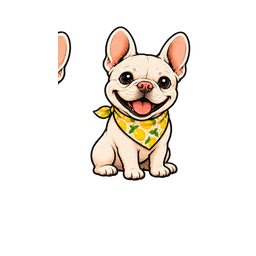
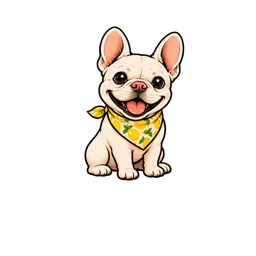
Béa: whole sprites, and she switches between running, digging and chasing
Each animation frame had been cut from its sprite sheet off-centre, so a
sliver of the neighbouring Béa showed at one edge and her nose or ear was
clipped at the other. The frames are re-cut from the joined strip, one
whole Béa per frame, and the stills updated to match.

While waiting she now changes what she is doing every 4.5 s: mostly her
own work, sometimes the other two, and with surprises on a ball chase or
a bone. The line stays about the real work; the ball and bone get their
own, now written for every personality but Helpful.

Claude-Session: https://claude.ai/code/session_01M5J7GXDaWhrAsWXa7BDjKX

Changed region(s): [[0.3125, 0.0938, 0.75, 0.7188], [0.2188, 0.125, 0.2812, 0.3438]]

diff --git a/src/lib/bea-character-data.ts b/src/lib/bea-character-data.ts
@@ -231,11 +231,17 @@ export const BEA_CHARACTER = {
         "Important update: ball.",
         "Béa was calculating. Then there was a ball.",
         "Ball retrieved. Dignity pending.",
+        "Béa is chasing a ball. The plan is chasing Béa.",
+        "Ball acquired. Béa's legs report that it was far.",
+        "Béa has caught the ball. The ball has been slobbered into submission.",
       ],
       bone: [
         "Béa found something. Unfortunately, it’s a bone.",
         "A solid find. Completely irrelevant.",
         "The evidence is delicious.",
+        "Béa dug for answers and found a bone. Close enough.",
+        "A bone. Béa is calling it a business expense.",
+        "Béa buried this bone in 2019. Probably.",
       ],
     },
     sassy: {
@@ -276,6 +282,16 @@ export const BEA_CHARACTER = {
         "Béa has narrowed it down to two. One of them is pretending.",
         "The ranking is under way. Some feelings may be hurt. Not Béa's.",
       ],
+      ball: [
+        "Béa is chasing the ball. The ball started it.",
+        "A ball rolled past. Béa did not ask for this, but here she is.",
+        "Béa will return to the plan once the ball stops being so smug.",
+      ],
+      bone: [
+        "Béa found a bone. Better quality than some of these reviews.",
+        "This bone has more going for it than half the options.",
+        "A bone. Finally, something in here worth keeping.",
+      ],
     },
     encouraging: {
       generic: [
@@ -303,6 +319,16 @@ export const BEA_CHARACTER = {
         "Great trips are built, not rushed. Béa is building.",
         "Béa is rooting for this plan. Loudly, with snorts.",
         "Keep the excitement warm. Béa is almost there.",
+      ],
+      ball: [
+        "Béa caught the ball. Everything is going well today.",
+        "Quick ball break. Béa is back on it with fresh energy.",
+        "Béa got the ball on the first try. Good sign for the plan.",
+      ],
+      bone: [
+        "Béa found a bone. Good things turn up when you keep digging.",
+        "A little treasure already. The plan is next.",
+        "A bone. Béa is taking this as a sign.",
       ],
     },
     curious: {
@@ -344,6 +370,16 @@ export const BEA_CHARACTER = {
         "What if the second option is secretly the best one? Béa is checking.",
         "Béa is turning the options over like an interesting stick.",
       ],
+      ball: [
+        "Where did this ball come from? Béa is investigating.",
+        "Béa is following the ball to see where it goes. Research.",
+        "Béa has questions about this ball. Mostly how far it rolls.",
+      ],
+      bone: [
+        "Béa found a bone and has many questions about who left it.",
+        "Is this bone significant? Béa is looking into it.",
+        "Béa is studying this bone very closely. With her mouth.",
+      ],
     },
     adventurous: {
       generic: [
@@ -383,6 +419,16 @@ export const BEA_CHARACTER = {
         "Béa is weighing comfort against a really good story.",
         "The bold choice is looking good. Béa is making sure it holds up.",
         "Béa is picking the option future you will brag about.",
+      ],
+      ball: [
+        "The ball went off the path. Naturally, Béa followed.",
+        "Béa is chasing the ball somewhere new. Detours count.",
+        "Béa went after the ball and found a whole new park.",
+      ],
+      bone: [
+        "Béa dug off the map and found a bone. Worth it.",
+        "Hidden treasure, bone edition. Béa is thrilled.",
+        "Béa went off-route and came back with a souvenir.",
       ],
     },
     dramatic: {
@@ -426,6 +472,16 @@ export const BEA_CHARACTER = {
         "Béa must choose. The weight of it. The sheer weight.",
         "Béa has not been this conflicted since the squeaky toy incident.",
       ],
+      ball: [
+        "The ball. It called to Béa. She had no choice.",
+        "Béa has abandoned her post for the ball. She regrets nothing.",
+        "A ball. Béa's one true weakness.",
+      ],
+      bone: [
+        "A bone. Béa's greatest discovery. Possibly of the century.",
+        "Béa has unearthed an ancient relic. It is a bone.",
+        "The bone was buried. Now it is found. Béa is overcome.",
+      ],
     },
     chill: {
       generic: [
@@ -465,6 +521,16 @@ export const BEA_CHARACTER = {
         "Both options seem fine. Béa is choosing the finer one.",
         "Béa is deciding. Horizontally.",
         "Weighing things up. Nobody panic. Béa certainly isn't.",
+      ],
+      ball: [
+        "Béa is chasing the ball. Casually.",
+        "Ball break. The plan will keep.",
+        "Béa got the ball eventually. No hurry.",
+      ],
+      bone: [
+        "Béa found a bone. Nice.",
+        "A bone turned up. Béa is not complaining.",
+        "Béa is taking a bone break. Back soon.",
       ],
     },
   },

diff --git a/src/components/BeaLoader.tsx b/src/components/BeaLoader.tsx
@@ -1,5 +1,5 @@
 import { useEffect, useRef, useState } from "react";
-import { loadingLine, type BeaAction, type BeaWork } from "@/lib/bea-personality";
+import { loadingLine, nextPose, type BeaAction, type BeaWork } from "@/lib/bea-personality";
 import { beaRecent, rememberBeaLine, useBeaSettings } from "@/hooks/useBeaSettings";
 
 /** Not shown for waits shorter than this, so a quick answer never flashes it. */
@@ -8,9 +8,10 @@ const SHOW_AFTER_MS = 300;
 const MIN_VISIBLE_MS = 650;
 /** A new line no sooner than this. */
 const ROTATE_MS = 9000;
-/** A long wait may earn the rare ball (or, while digging, bone) once. */
-const EASTER_EGG_AFTER_MS = 20000;
-const EASTER_EGG_CHANCE = 0.08;
+/** She changes what she is doing twice as often as she says something new. */
+const POSE_MS = ROTATE_MS / 2;
+const POSES: readonly BeaAction[] = ["run", "dig", "think", "ball", "bone"];
+const isSideTrip = (pose: BeaAction) => pose === "ball" || pose === "bone";
 
 function useReducedMotion(): boolean {
   const [reduce, setReduce] = useState(false);
@@ -55,7 +56,9 @@ function useShown(active: boolean): boolean {
  *
  * `status` is the real step, when the work has one ("Placing your stops…"):
  * the joke is never the only word on what is happening. `serious` keeps the
- * line plain. Reduce Motion gets the still picture and no rotation.
+ * line plain and Béa on her own task. Otherwise she switches between running,
+ * digging, thinking and, now and then, chasing a ball, while the line stays
+ * about the real work. Reduce Motion gets the still picture and no rotation.
  */
 export function BeaLoader({
   active,
@@ -78,29 +81,34 @@ export function BeaLoader({
 
   useEffect(() => {
     if (!shown) return;
-    const start = Date.now();
-    let egged = false;
-    const say = (a: BeaAction) => {
-      const next = loadingLine({ action: a, settings, recent: beaRecent(), serious });
+    let current: BeaAction = action;
+    const say = (shownPose: BeaAction) => {
+      // The line is about the real work; only a ball or a bone gets its own.
+      const about = isSideTrip(shownPose) ? shownPose : action;
+      const next = loadingLine({ action: about, settings, recent: beaRecent(), serious });
       rememberBeaLine(next);
       setLine(next);
     };
     setPose(action);
     say(action);
     if (reduce) return;
+    if (!serious) {
+      for (const p of POSES) new Image().src = `/bea/bea-${p}.webp`;
+    }
+    let tick = 0;
     const timer = window.setInterval(() => {
-      const long = Date.now() - start > EASTER_EGG_AFTER_MS;
-      if (!egged && long && !serious && settings.surprises && Math.random() < EASTER_EGG_CHANCE) {
-        egged = true;
-        const egg: BeaAction = action === "dig" && Math.random() < 0.5 ? "bone" : "ball";
-        setPose(egg);
-        say(egg);
+      tick += 1;
+      const newLine = tick % 2 === 0;
+      if (serious) {
+        if (newLine) say(action);
         return;
       }
-      // After the Easter egg, straight back to the work.
-      setPose(action);
-      say(action);
-    }, ROTATE_MS);
+      // Between lines she only switches work, so a ball joke keeps its ball.
+      if (!newLine && isSideTrip(current)) return;
+      current = nextPose({ work: action, previous: current, settings, jokes: newLine });
+      setPose(current);
+      if (newLine) say(current);
+    }, POSE_MS);
     return () => window.clearInterval(timer);
   }, [shown, action, serious, reduce, settings]);
 

diff --git a/src/lib/bea-personality.test.ts b/src/lib/bea-personality.test.ts
@@ -12,6 +12,7 @@ import {
   loadingLine,
   mixPercents,
   modeName,
+  nextPose,
   normalizeMix,
   presetOf,
   seededRandom,
@@ -144,4 +145,50 @@ test("a stop aside follows the mix and the 'Béa says' switch", () => {
   assert.equal(stopAside({ mood: "meal", settings: plain, rand: () => 0 }), null);
   const early = stopAside({ mood: "sight", hour: 5, settings: playful, rand: () => 0 });
   assert.match(early ?? "", /early|mornings/);
+});
+
+test("while waiting Béa switches what she is doing, mostly her own work", () => {
+  const seen = new Map<string, number>();
+  let previous: ReturnType<typeof nextPose> = "run";
+  const rand = seededRandom(11);
+  for (let i = 0; i < 400; i++) {
+    const pose = nextPose({ work: "run", previous, settings: DEFAULT_SETTINGS, rand });
+    assert.ok(pose === "run" || pose !== previous, `${pose} twice in a row`);
+    seen.set(pose, (seen.get(pose) ?? 0) + 1);
+    previous = pose;
+  }
+  for (const pose of ["run", "dig", "think", "ball", "bone"]) assert.ok(seen.has(pose), pose);
+  assert.ok((seen.get("run") ?? 0) > (seen.get("dig") ?? 0));
+});
+
+test("no ball or bone without surprises, between lines, or for a plain Béa", () => {
+  const plain = { ...DEFAULT_SETTINGS, mix: mix({ helpful: 100 }) };
+  const quiet = { ...DEFAULT_SETTINGS, surprises: false };
+  for (let seed = 0; seed < 50; seed++) {
+    for (const [settings, jokes] of [
+      [plain, true],
+      [quiet, true],
+      [DEFAULT_SETTINGS, false],
+    ] as const) {
+      const pose = nextPose({
+        work: "dig",
+        previous: "dig",
+        settings,
+        jokes,
+        rand: seededRandom(seed),
+      });
+      assert.ok(["run", "dig", "think"].includes(pose), pose);
+    }
+  }
+});
+
+test("every trait with jokes has something to say about the ball and the bone", () => {
+  for (const trait of BEA_TRAITS.filter((t) => t !== "helpful")) {
+    const bank = BEA_CHARACTER.loading[trait] as {
+      ball?: readonly string[];
+      bone?: readonly string[];
+    };
+    assert.ok((bank.ball?.length ?? 0) >= 3, trait);
+    assert.ok((bank.bone?.length ?? 0) >= 3, trait);
+  }
 });

diff --git a/src/lib/bea-personality.ts b/src/lib/bea-personality.ts
@@ -186,6 +186,39 @@ export const PLAIN_WORKING: Record<BeaWork, string> = {
   think: "Béa is comparing the options.",
 };
 
+/**
+ * What Béa is drawn doing next while she waits. Her own work comes up most,
+ * the other two kinds of work for variety, and — with surprises on and some
+ * play in the mix — chasing the ball or digging up a bone. Never the same
+ * side trip twice in a row. `jokes: false` keeps to the three kinds of work.
+ */
+export function nextPose(input: {
+  work: BeaWork;
+  previous: BeaAction;
+  settings: BeaSettings;
+  jokes?: boolean;
+  rand?: () => number;
+}): BeaAction {
+  const { work, previous, settings, jokes = true, rand = Math.random } = input;
+  const shares = normalizeMix(settings.mix);
+  const weights: [BeaAction, number][] = [
+    [work, 3],
+    ...(["run", "dig", "think"] as const)
+      .filter((w) => w !== work)
+      .map((w): [BeaAction, number] => [w, 1.5]),
+  ];
+  if (jokes && settings.surprises && shares.helpful < 0.8) {
+    weights.push(["ball", 1.5], ["bone", work === "dig" ? 1.5 : 0.75]);
+  }
+  const pool = weights.filter(([pose]) => pose === work || pose !== previous);
+  let r = rand() * pool.reduce((s, [, w]) => s + w, 0);
+  for (const [pose, w] of pool) {
+    r -= w;
+    if (r <= 0) return pose;
+  }
+  return work;
+}
+
 type Bank = Partial<Record<"generic" | BeaAction, readonly string[]>>;
 const LOADING = BEA_CHARACTER.loading as Record<BeaTrait, Bank>;
 
